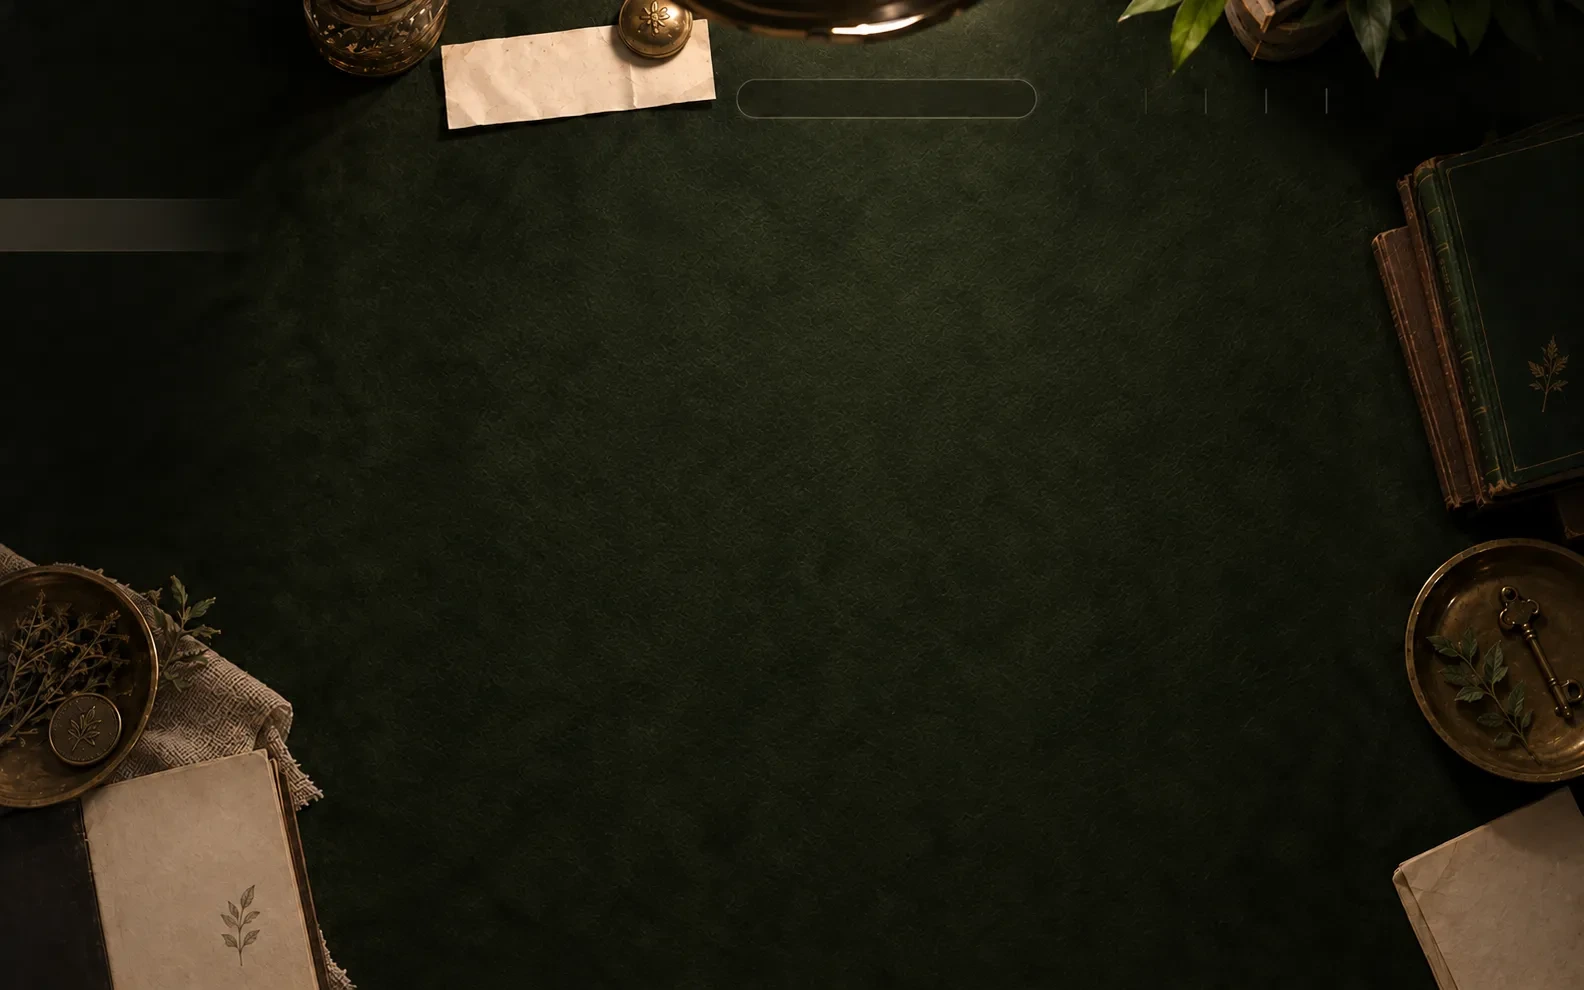
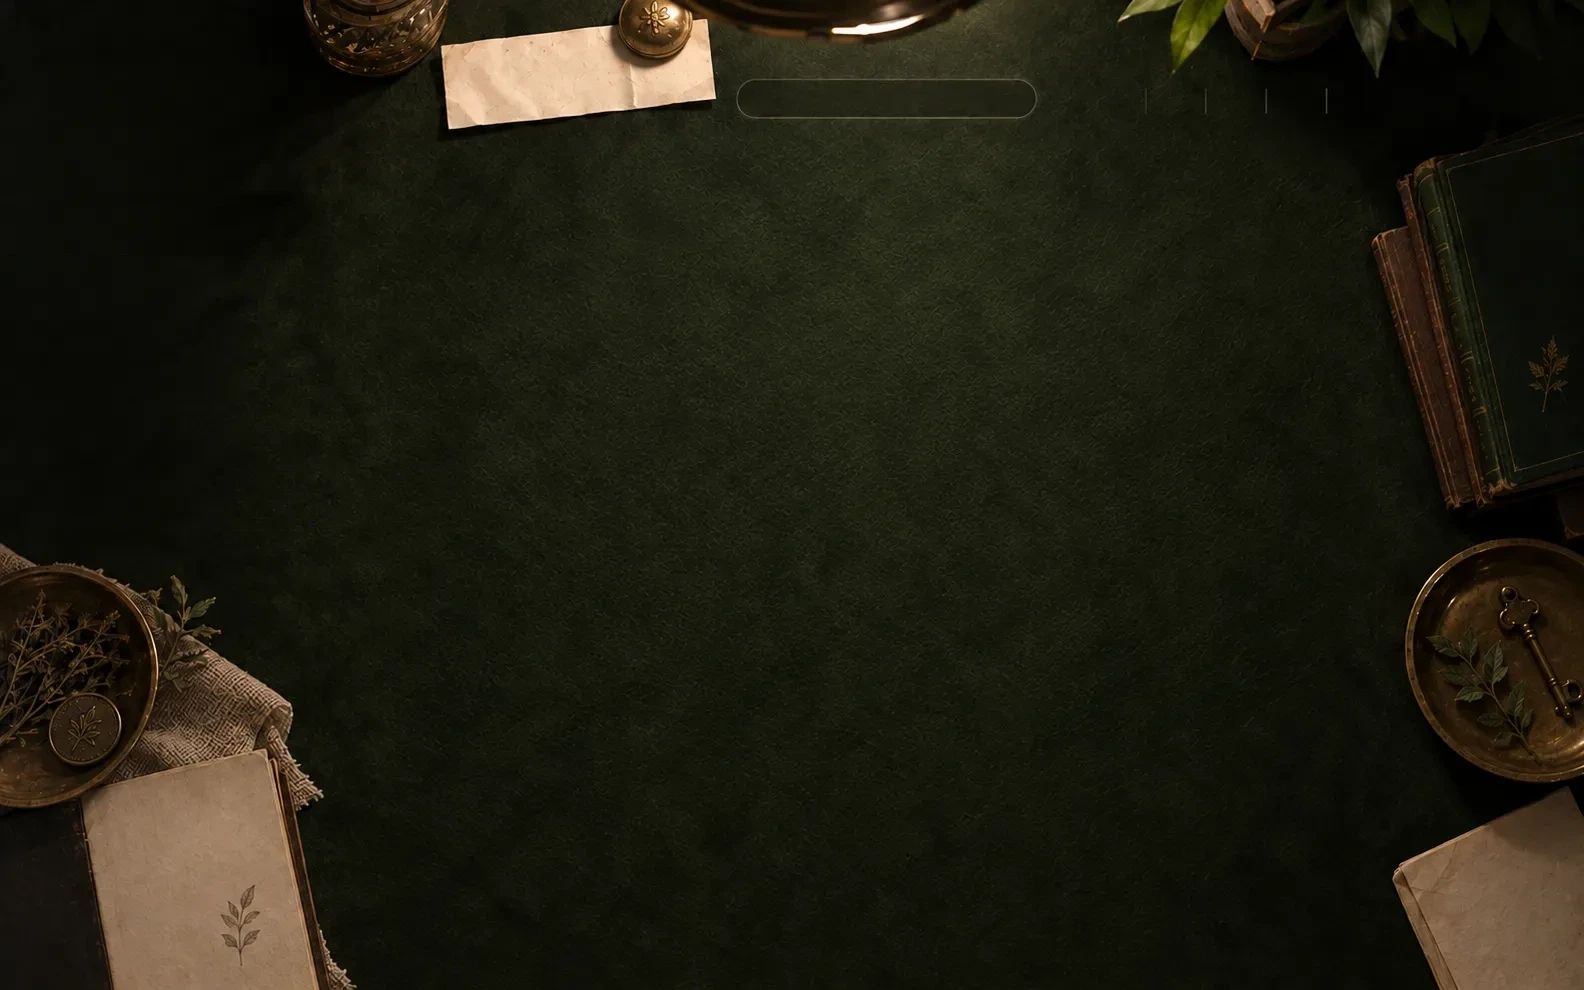
Sidebar nav: absolute rows at 56px rhythm (mockup 01), 今日一牌 label, baked atlas row band erased

Changed region(s): [[0.0, 0.1818, 0.1237, 0.2727]]

diff --git a/app.js b/app.js
@@ -130,11 +130,11 @@ function cardHTML(c,v='d',w=120,h=null,extra=''){const lab=`${c.id} ${esc(zh(c))
 const backHTML2=(w,h)=>`<div class="card back" style="--w:${w}px;${h?`height:${h}px`:''}" aria-hidden="true"></div>`;
 const flip2=(c,v,w,h)=>`<div class="in3">${backHTML2(w,h)}${cardHTML(c,v,w,h,'face')}<div class="shade"></div></div>`;
 /* ---- chrome ---- */
-const NAV=[['#/','read','home','占卜仪式'],['#/atlas','atlas','book','牌库图鉴'],['#/history','history','doc','我的记录'],['#/today','today','heart','心灵札记'],['#/settings','settings','gear','设置']];
+const NAV=[['#/','read','home','占卜仪式'],['#/atlas','atlas','book','牌库图鉴'],['#/history','history','doc','我的记录'],['#/today','today','heart','今日一牌'],['#/settings','settings','gear','设置']];
 const TABIC={home:'moon',book:'book',doc:'doc',heart:'heart',gear:'gear'};
 function chromeD(o){const tr=o.tr===undefined?['让日常，','也成为一种仪式。','<span class="en" style="font-size:11.5px;letter-spacing:.04em">A More Attentive Life</span>']:o.tr;
  let h=`<a href="#/" class="A t" style="left:26px;top:20px;font-size:28px;letter-spacing:.12em;text-shadow:0 1px 8px #000">寂境<span class="en" style="font-size:22px;letter-spacing:.02em;margin-left:12px">Stillrealm</span></a>`+T_(26,66,'在静默中，看见生活的下一页。',12.5,{cls:'mu',st:'letter-spacing:.14em'});
- h+=`<nav class="nav" aria-label="主导航">${NAV.map(([href,k,ic,l],i)=>A(0,134+i*50.5,`<img src="assets/ic/${ic}.webp" alt=""><span>${l}</span>`,{tag:'a',w:150,h:40,at:`href="${href}" data-nav="${k}"`})).join('')}</nav>`;
+ h+=`<nav class="nav" aria-label="主导航">${NAV.map(([href,k,ic,l],i)=>A(0,145+i*56,`<img src="assets/ic/${ic}.webp" alt=""><span>${l}</span>`,{tag:'a',w:150,h:40,at:`href="${href}" data-nav="${k}"`})).join('')}</nav>`;
  if(tr&&tr.length)h+=T_(1302,22,tr.join('<br>'),12,{st:'line-height:1.75;letter-spacing:.1em'});
  if(o.bl)h+=T_(25,o.blY||774,o.bl.join('<br>'),12.5,{st:'line-height:1.65;letter-spacing:.12em'});
  if(o.br!==false)h+=A(o.brX||1396,o.brY||828,'CARDS<br>PEOPLE<br>A QUIETER YOU',{cls:'t en',st:'opacity:.72;transform:translateX(-100%);text-align:right;font-size:10.5px;line-height:1.75;letter-spacing:.26em'});
@@ -560,7 +560,7 @@ function route(){cleanup.forEach(f=>f());cleanup=[];World.clear();window.speechS
  ({'':vLanding,ask:()=>window.OV.ask(),topic:vTopic,spread:vSpread,draw:vDraw,reading:()=>vReading(b),atlas:vAtlas,graph:()=>vGraph(+b||0),card:()=>vCard(+b),history:vHistory,settings:vSettings,today:()=>{const d=new Date();vCard((d.getFullYear()*372+d.getMonth()*31+d.getDate())%36+1,true)}}[a||'']||v404)();
  const nav={atlas:'atlas',graph:'atlas',card:'atlas',history:'history',settings:'settings',today:'today'}[a]||'read';
  $$('[data-nav]').forEach(x=>x.dataset.nav===nav?x.setAttribute('aria-current','page'):x.removeAttribute('aria-current'));
- const T2={graph:'卡牌关系',topic:'选择方向',spread:'选择牌阵',draw:'洗牌与抽牌',reading:'解读',atlas:'牌库图鉴',card:'牌义',history:'我的记录',settings:'声音设置',today:'心灵札记'}[a];
+ const T2={graph:'卡牌关系',topic:'选择方向',spread:'选择牌阵',draw:'洗牌与抽牌',reading:'解读',atlas:'牌库图鉴',card:'牌义',history:'我的记录',settings:'声音设置',today:'今日一牌'}[a];
  document.title=(T2?T2+' · ':'')+'寂境 · 雷诺曼';scrollTo(0,0);main.focus({preventScroll:true})}
 window.LJ={loading,esc,zh,clean,cardHTML,chalkText,chalkSVG,M,RM,interpret,SPREADS,go2,newQuestion,toast,save,LS,domText,stage,A,T_,markDrawn,TPL,T,C,readingSheet,keepDialog,get S(){return S},set S(v){S=v},get cleanup(){return cleanup}};
 addEventListener('hashchange',route);route();

diff --git a/style.css b/style.css
@@ -431,7 +431,7 @@ select.sel{background:url(assets/v2/sel.webp) center/100% 100% no-repeat!importa
 /* nav focus */
 .nav a:focus-visible{box-shadow:none!important;color:#f6e3b4;background:linear-gradient(90deg,rgba(201,163,92,.22),transparent 85%)}
 .nav a:focus-visible::after{content:"";position:absolute;left:28px;right:40px;bottom:6px;height:1px;background:linear-gradient(90deg,rgba(222,186,116,.8),transparent)}
-.nav a{position:relative}
+.nav a{position:absolute}
 #tabs a:focus-visible{box-shadow:none!important;color:#f6e3b4}
 /* textarea focus on paper: no outline, ink caret + faint underline */
 textarea.qin{caret-color:#5a3d1c;padding:4px 6px}
